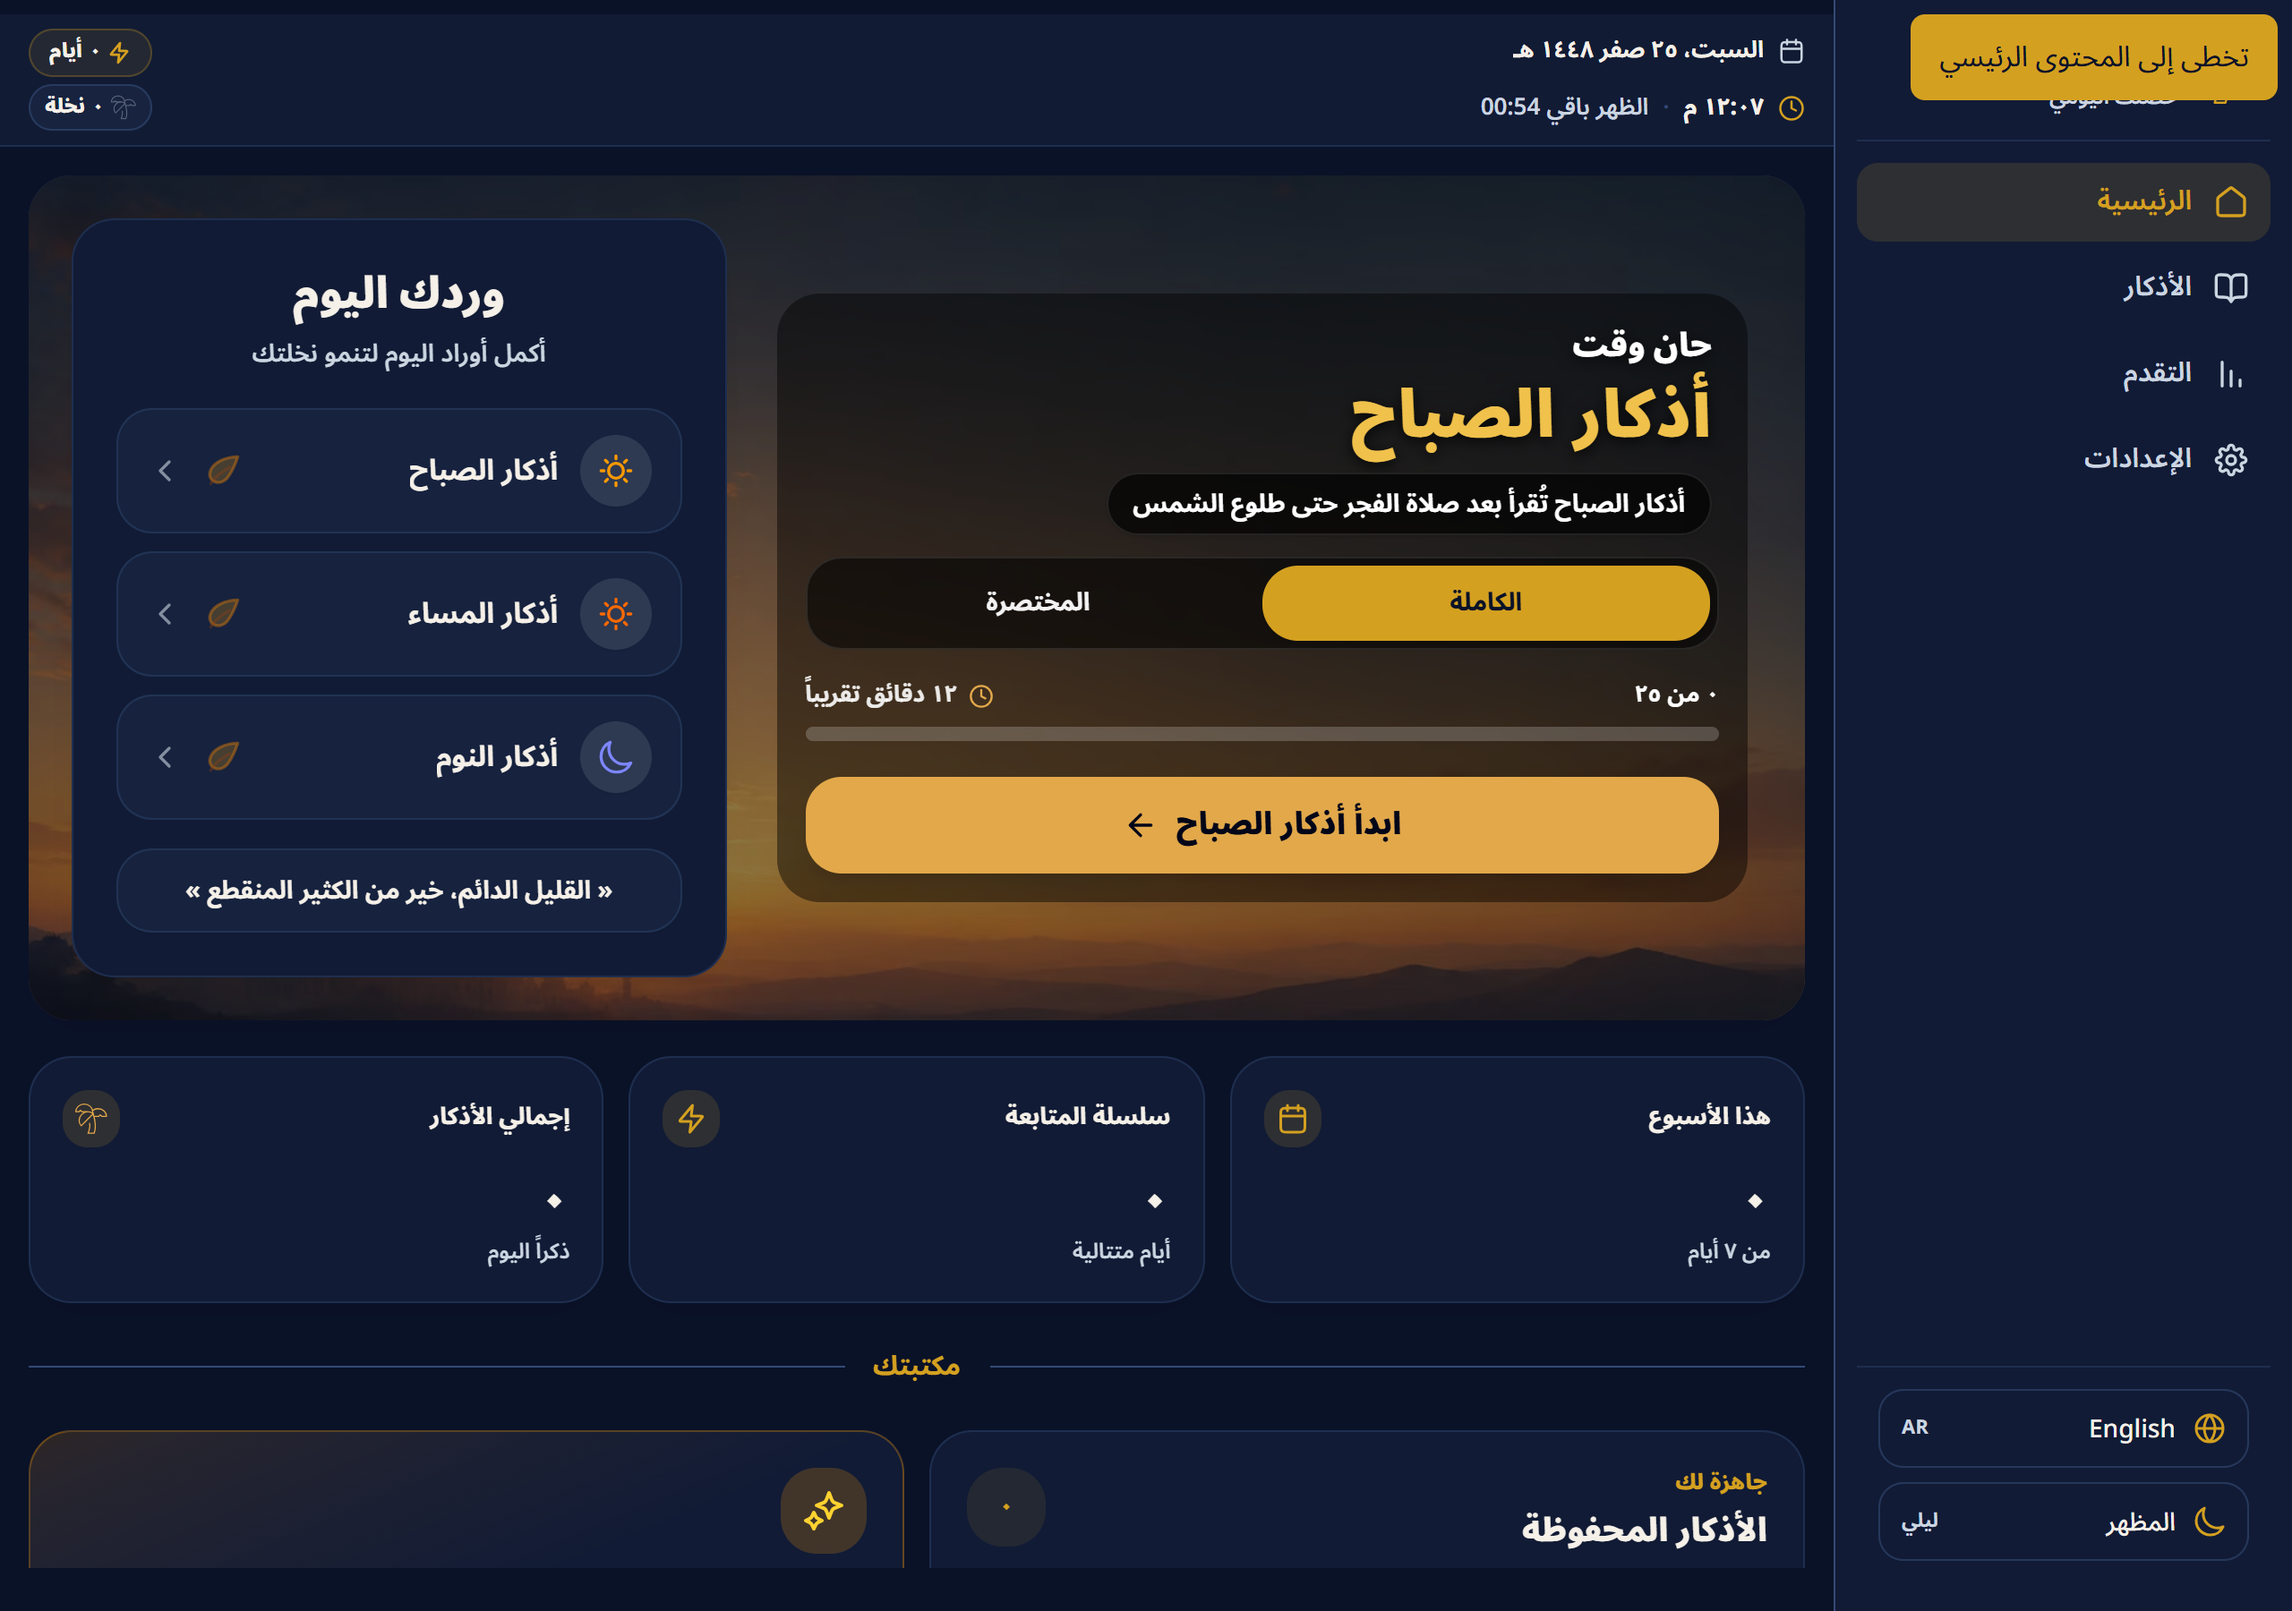
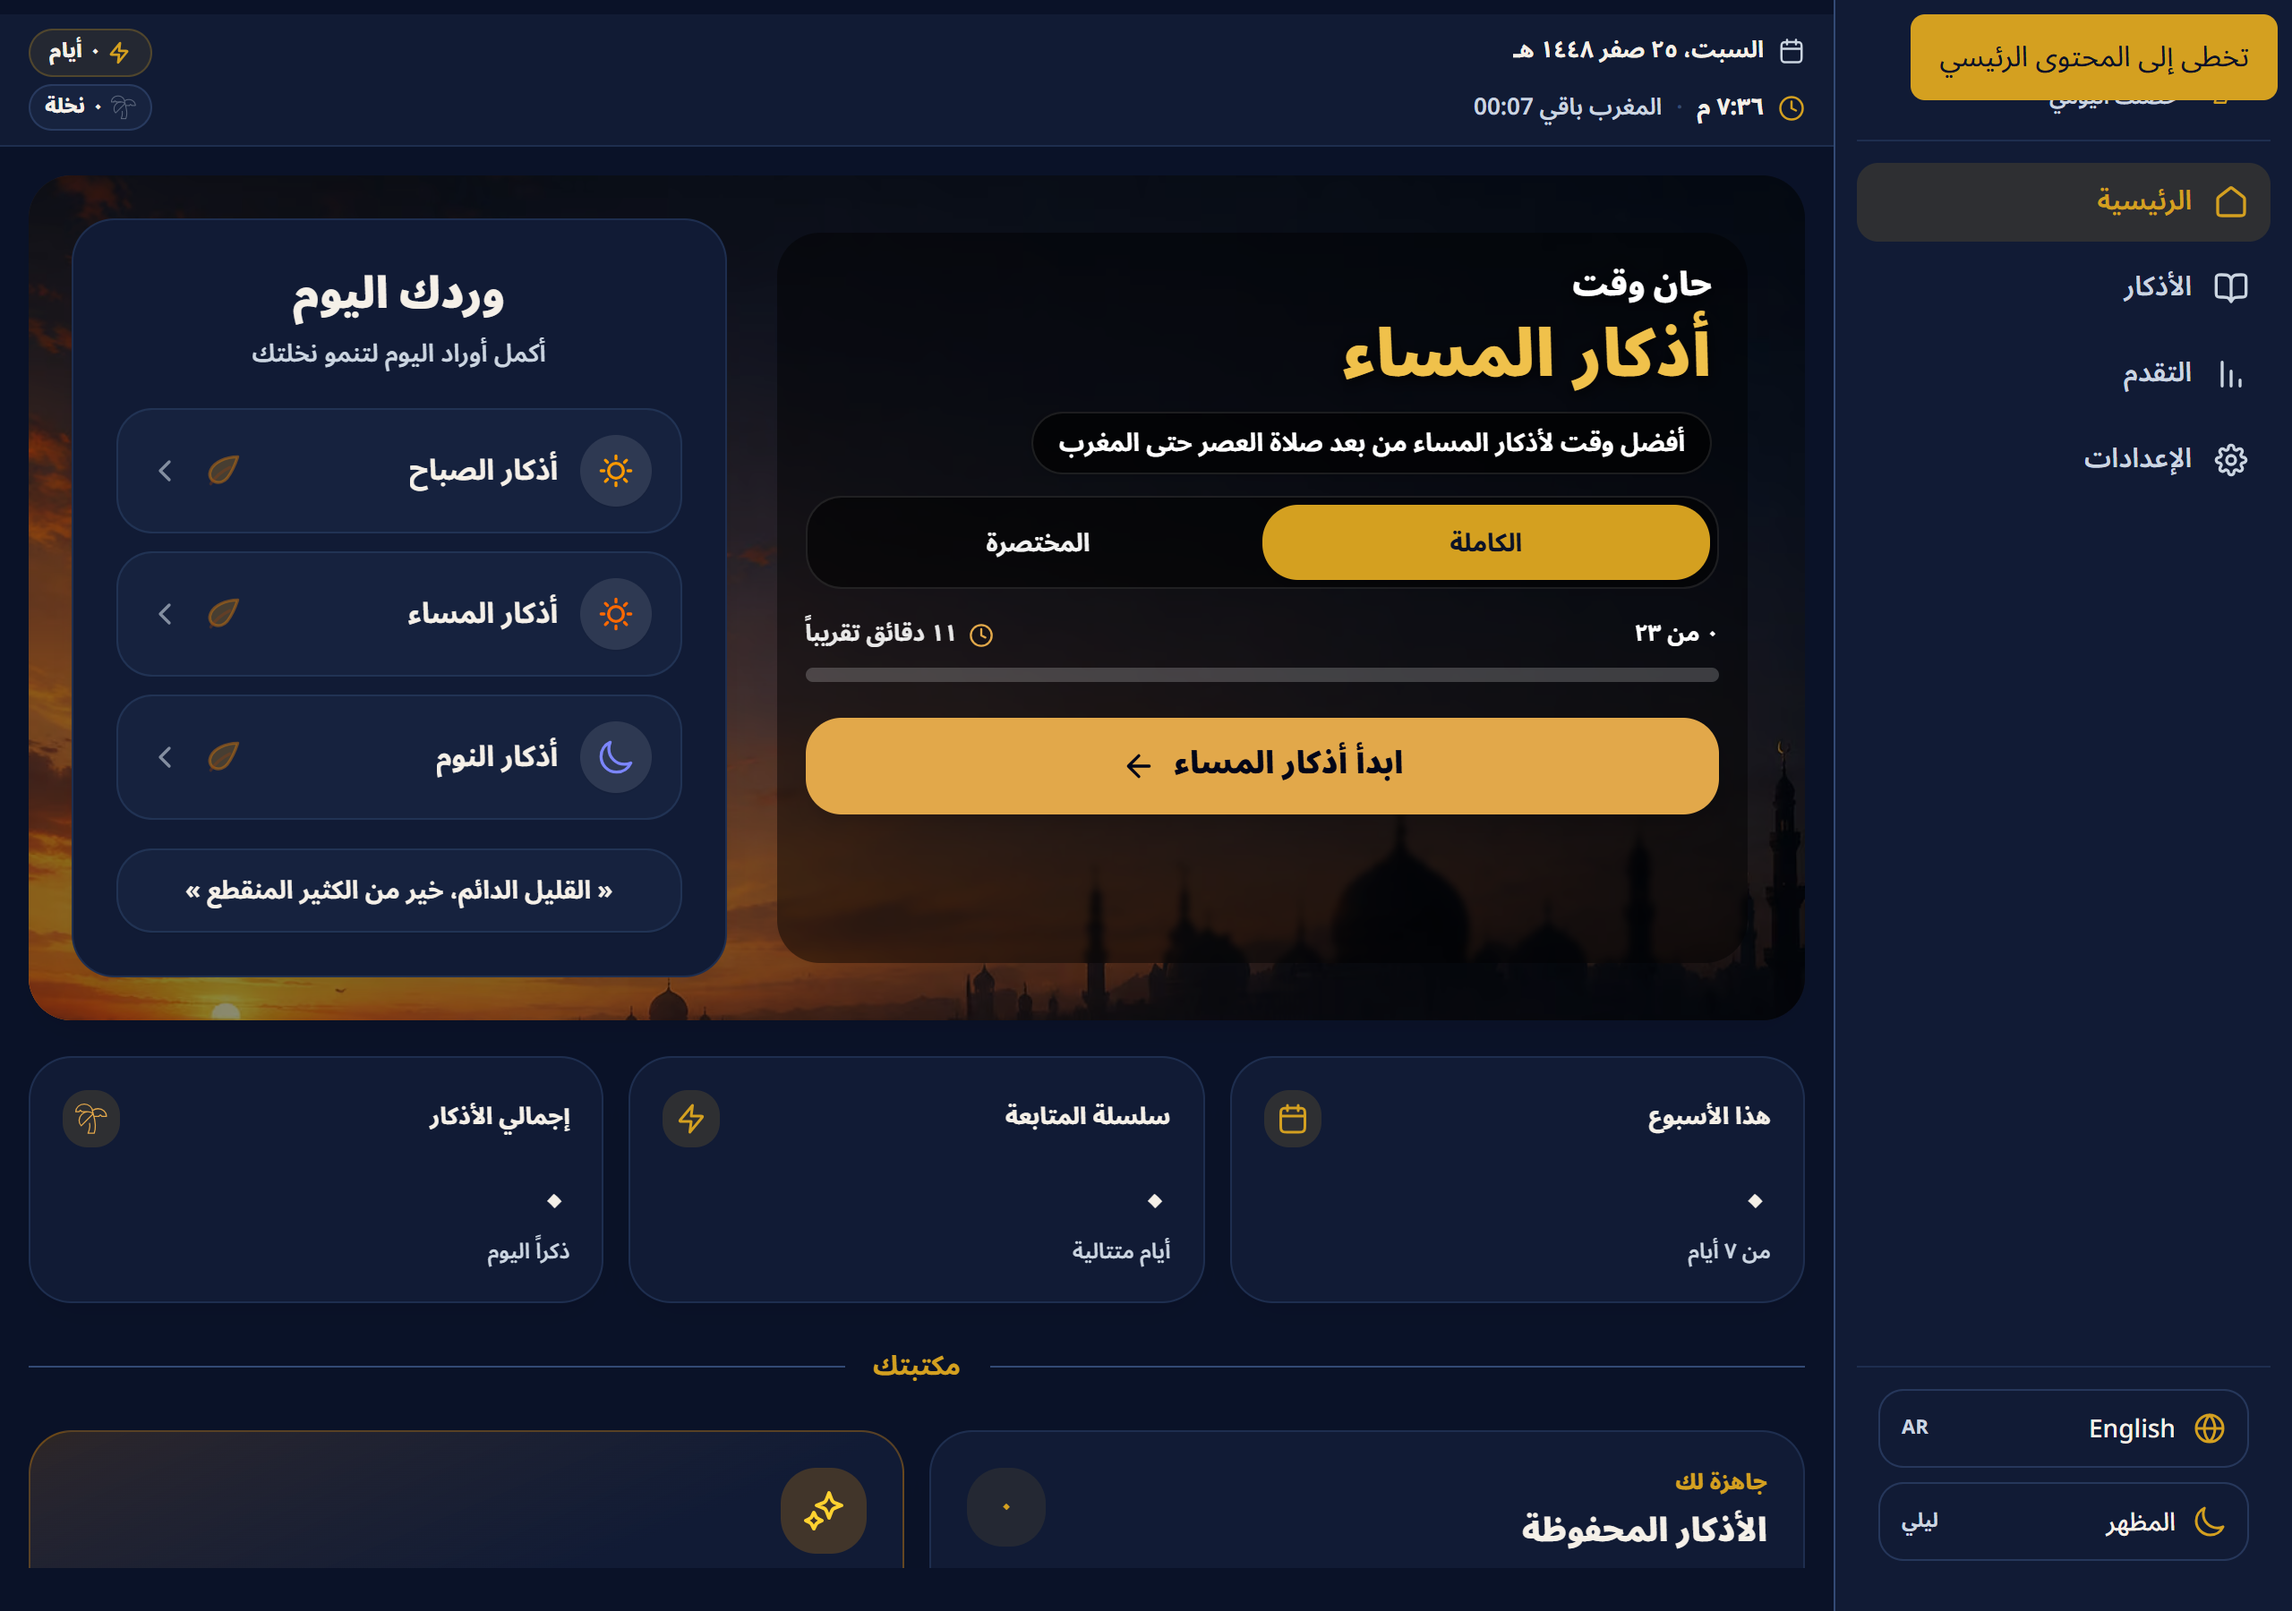
fix(home): stretch today's-wird card to match hero height
The hero and the Today's Wird card sat at independent heights, leaving
a visible gap under the shorter one on wide viewports; the hero itself
also stretched edge-to-edge on ultrawide displays and lost its
composition. Cap the hero's width, stretch both cards to a shared
height via flex, and pin the motivational quote to the card's foot so
it doesn't float mid-card once stretched.

Changed region(s): [[0.0, 0.1244, 0.8125, 0.6533], [0.6562, 0.0622, 0.75, 0.0933]]

diff --git a/src/app/screens/HomeScreen.tsx b/src/app/screens/HomeScreen.tsx
@@ -418,9 +418,13 @@ export function HomeScreen({
         <div className="flex w-full flex-col gap-4 lg:gap-5">
           {/* Hero card. The scene image is contained by this card rather than
               washed across the whole screen, so the page keeps its own surface. */}
-          <div className="relative overflow-hidden rounded-3xl shadow-raised">
+          {/* Capped and centred: unbounded, the hero stretched the full width of
+              an ultrawide display and the scene image lost all composition. */}
+          <div className="relative mx-auto w-full max-w-[80rem] overflow-hidden rounded-3xl shadow-raised">
             <TimeOfDayBackground categoryId={homeBackgroundCategoryId} variant="card" />
-            <div className="relative z-10 flex flex-col items-stretch gap-4 p-4 md:p-6 lg:grid lg:grid-cols-5 lg:items-center lg:gap-5">
+            {/* items-stretch, not items-center: the wird card should match the
+                hero's height rather than float centred against it. */}
+            <div className="relative z-10 flex flex-col items-stretch gap-4 p-4 md:p-6 lg:grid lg:grid-cols-5 lg:items-stretch lg:gap-5">
               {isComplete ? (
                 <div className="lg:col-span-3">
                   <TranquilityCompletionCard
@@ -439,7 +443,7 @@ export function HomeScreen({
                       so its white text needs its own dark backing rather than
                       relying on the page scrim. Without this, "Time for"
                       measured 1.98:1 against a required 4.5:1. */}
-                  <div className="flex flex-col gap-3 rounded-3xl bg-black/45 p-3 text-start backdrop-blur-[2px] md:p-4">
+                  <div className="flex flex-1 flex-col gap-3 rounded-3xl bg-black/45 p-3 text-start backdrop-blur-[2px] md:p-4">
                     {/* Hero Text & Category Header */}
                     <div className="flex w-full flex-col items-start gap-1 px-1">
                       <p
@@ -543,7 +547,7 @@ export function HomeScreen({
               {/* Today's Wird ("وردك اليوم") beside the hero. TodayRoutineGarden already
               renders exactly this card; a second bespoke one would duplicate it. */}
               {quietProgressEnabled && (
-                <div className="lg:col-span-2 flex w-full">
+                <div className="lg:col-span-2 flex h-full w-full">
                   <TodayRoutineGarden
                     summary={gardenSummary}
                     language={language}

diff --git a/src/app/components/ProgressViews.tsx b/src/app/components/ProgressViews.tsx
@@ -128,9 +128,12 @@ export function ProgressDayView({
     : allCategories;
 
   return (
-    <div className="flex flex-col gap-4 w-full max-w-[44rem] mx-auto fade-in" dir={isArabic ? "rtl" : "ltr"}>
+    // h-full/flex-1 let Home stretch this card to the hero's height. On the
+    // Progress screen the parent has no definite height, so both resolve to
+    // auto and nothing changes there.
+    <div className="flex h-full flex-col gap-4 w-full max-w-[44rem] mx-auto fade-in" dir={isArabic ? "rtl" : "ltr"}>
       {/* Main Today's Wird Container Card */}
-      <div className="w-full rounded-3xl bg-card border border-border/40 p-5 md:p-6 shadow-raised">
+      <div className="flex w-full flex-1 flex-col rounded-3xl bg-card border border-border/40 p-5 md:p-6 shadow-raised">
         {/* Title and subtitle */}
         <div className="flex flex-col items-center text-center mb-5">
           <h3 className="text-[1.375rem] md:text-[1.5rem] font-black text-foreground tracking-tight mb-1">
@@ -177,7 +180,9 @@ export function ProgressDayView({
         </ul>
 
         {/* Motivational Quote Pill Banner */}
-        <div className="w-full rounded-2xl border border-border/40 bg-muted/40 px-4 py-3 flex items-center justify-center text-center shadow-2xs backdrop-blur-md">
+        {/* mt-auto so the banner sits at the card's foot when the card is
+            stretched to match the hero, rather than leaving a gap below it. */}
+        <div className="mt-auto w-full rounded-2xl border border-border/40 bg-muted/40 px-4 py-3 flex items-center justify-center text-center shadow-2xs backdrop-blur-md">
           <p className="text-[0.8125rem] sm:text-[0.875rem] font-bold text-foreground">
             {isArabic
               ? "« القليل الدائم، خير من الكثير المنقطع »"

diff --git a/src/app/components/RoutineGarden.tsx b/src/app/components/RoutineGarden.tsx
@@ -113,7 +113,7 @@ export function TodayRoutineGarden({
     <section
       data-testid="today-garden-card"
       aria-label={t(language, "garden.todayTitle")}
-      className="w-full transition-all"
+      className="h-full w-full transition-all"
     >
       {!hideTabs && (
         <>
